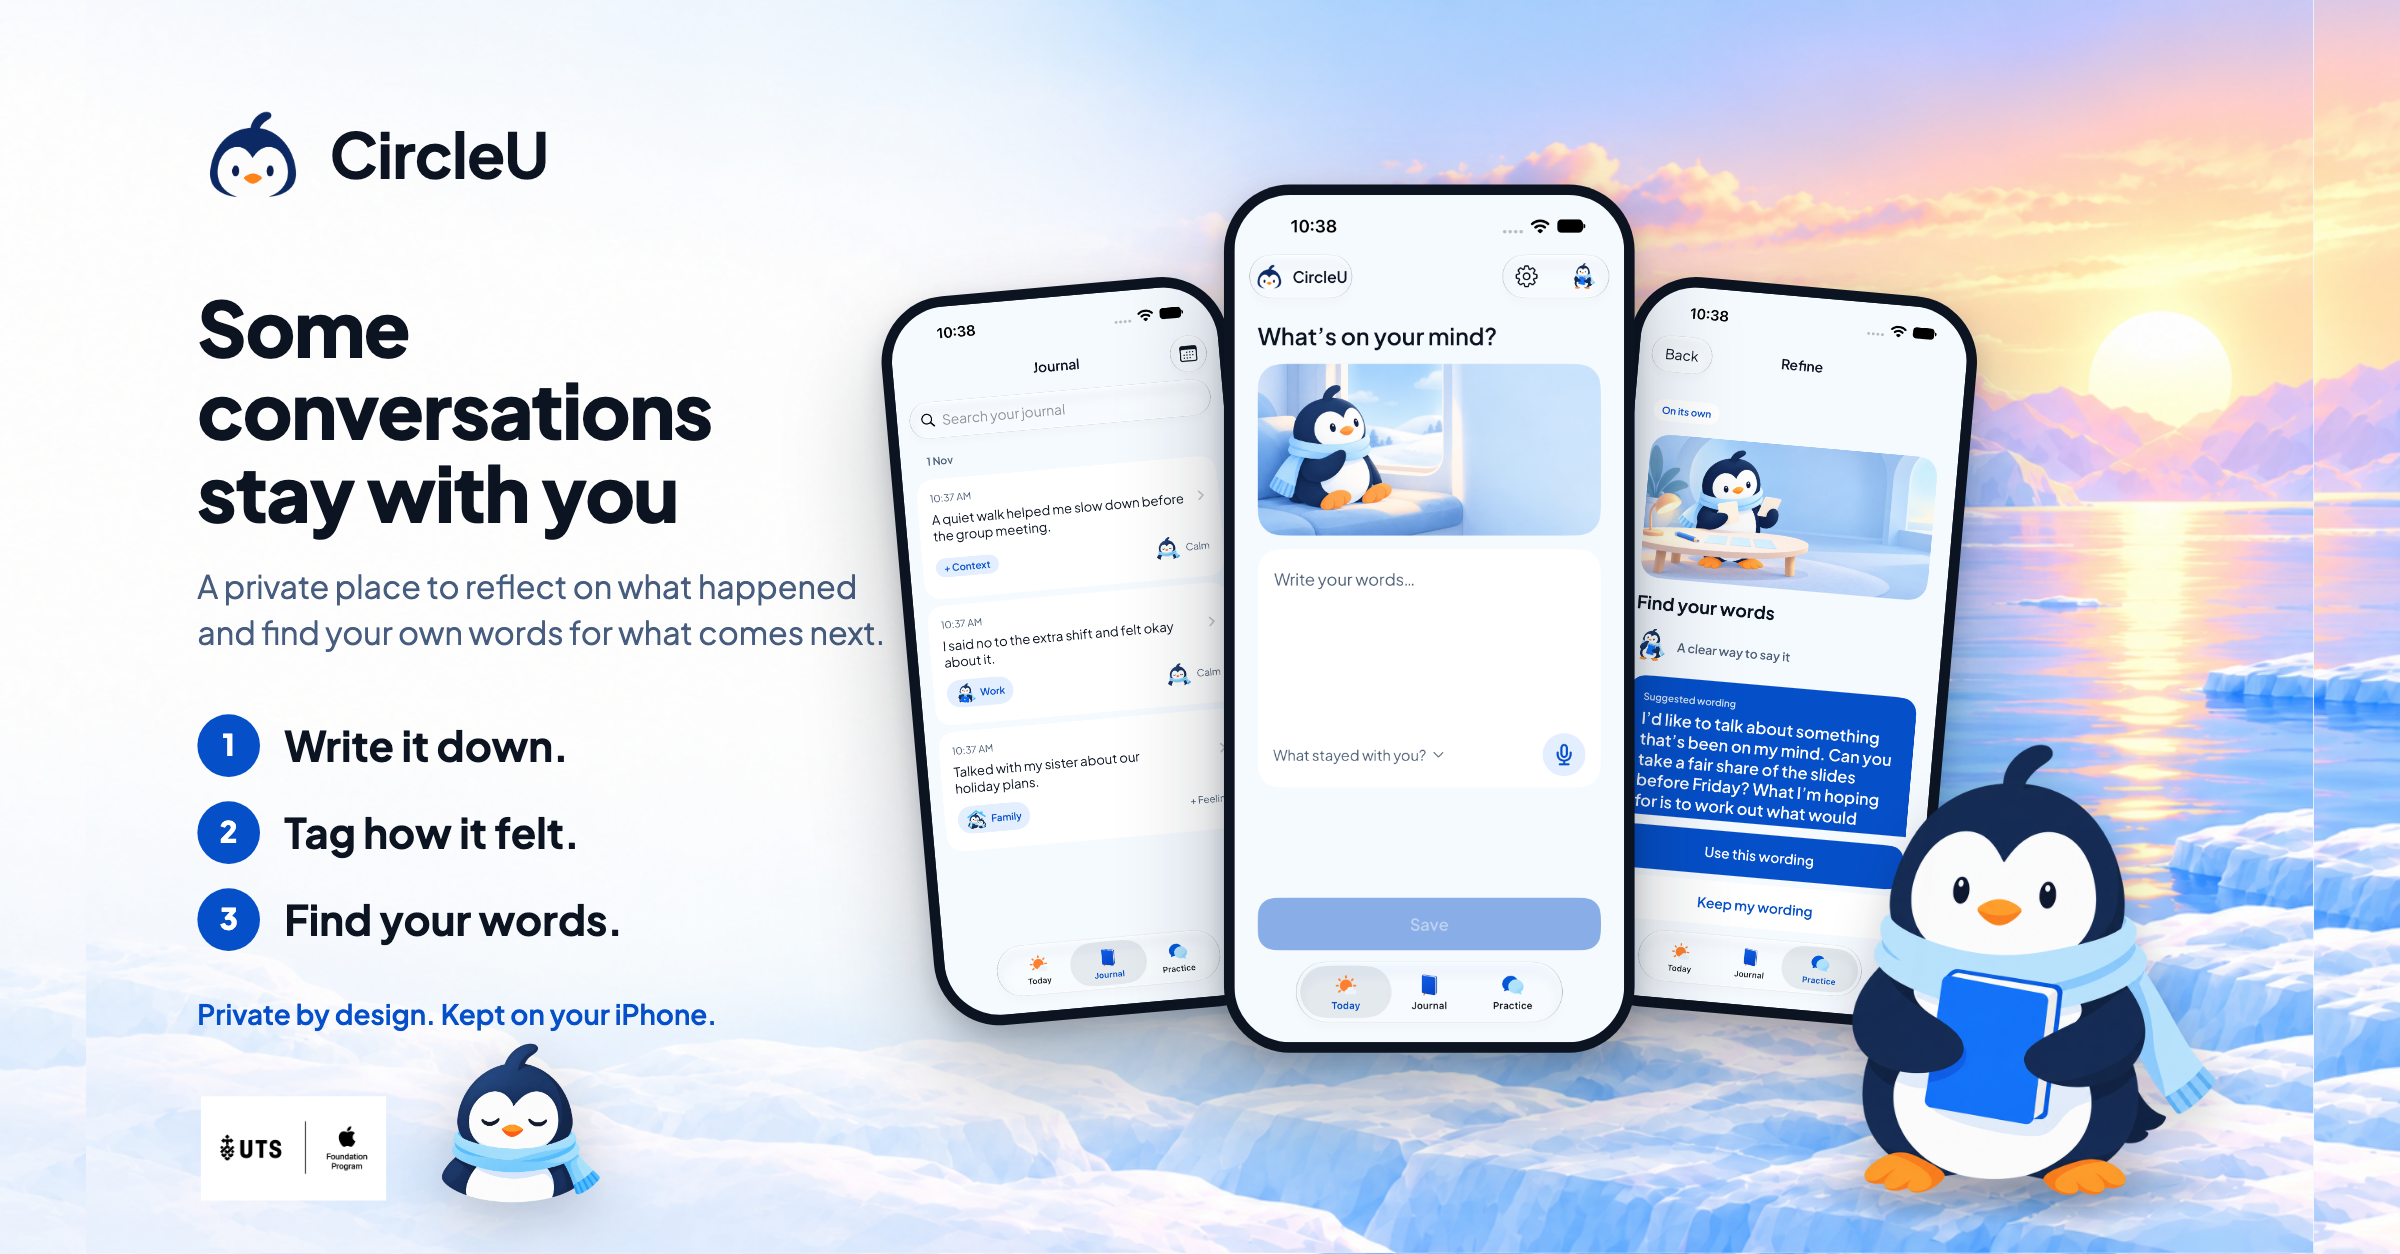
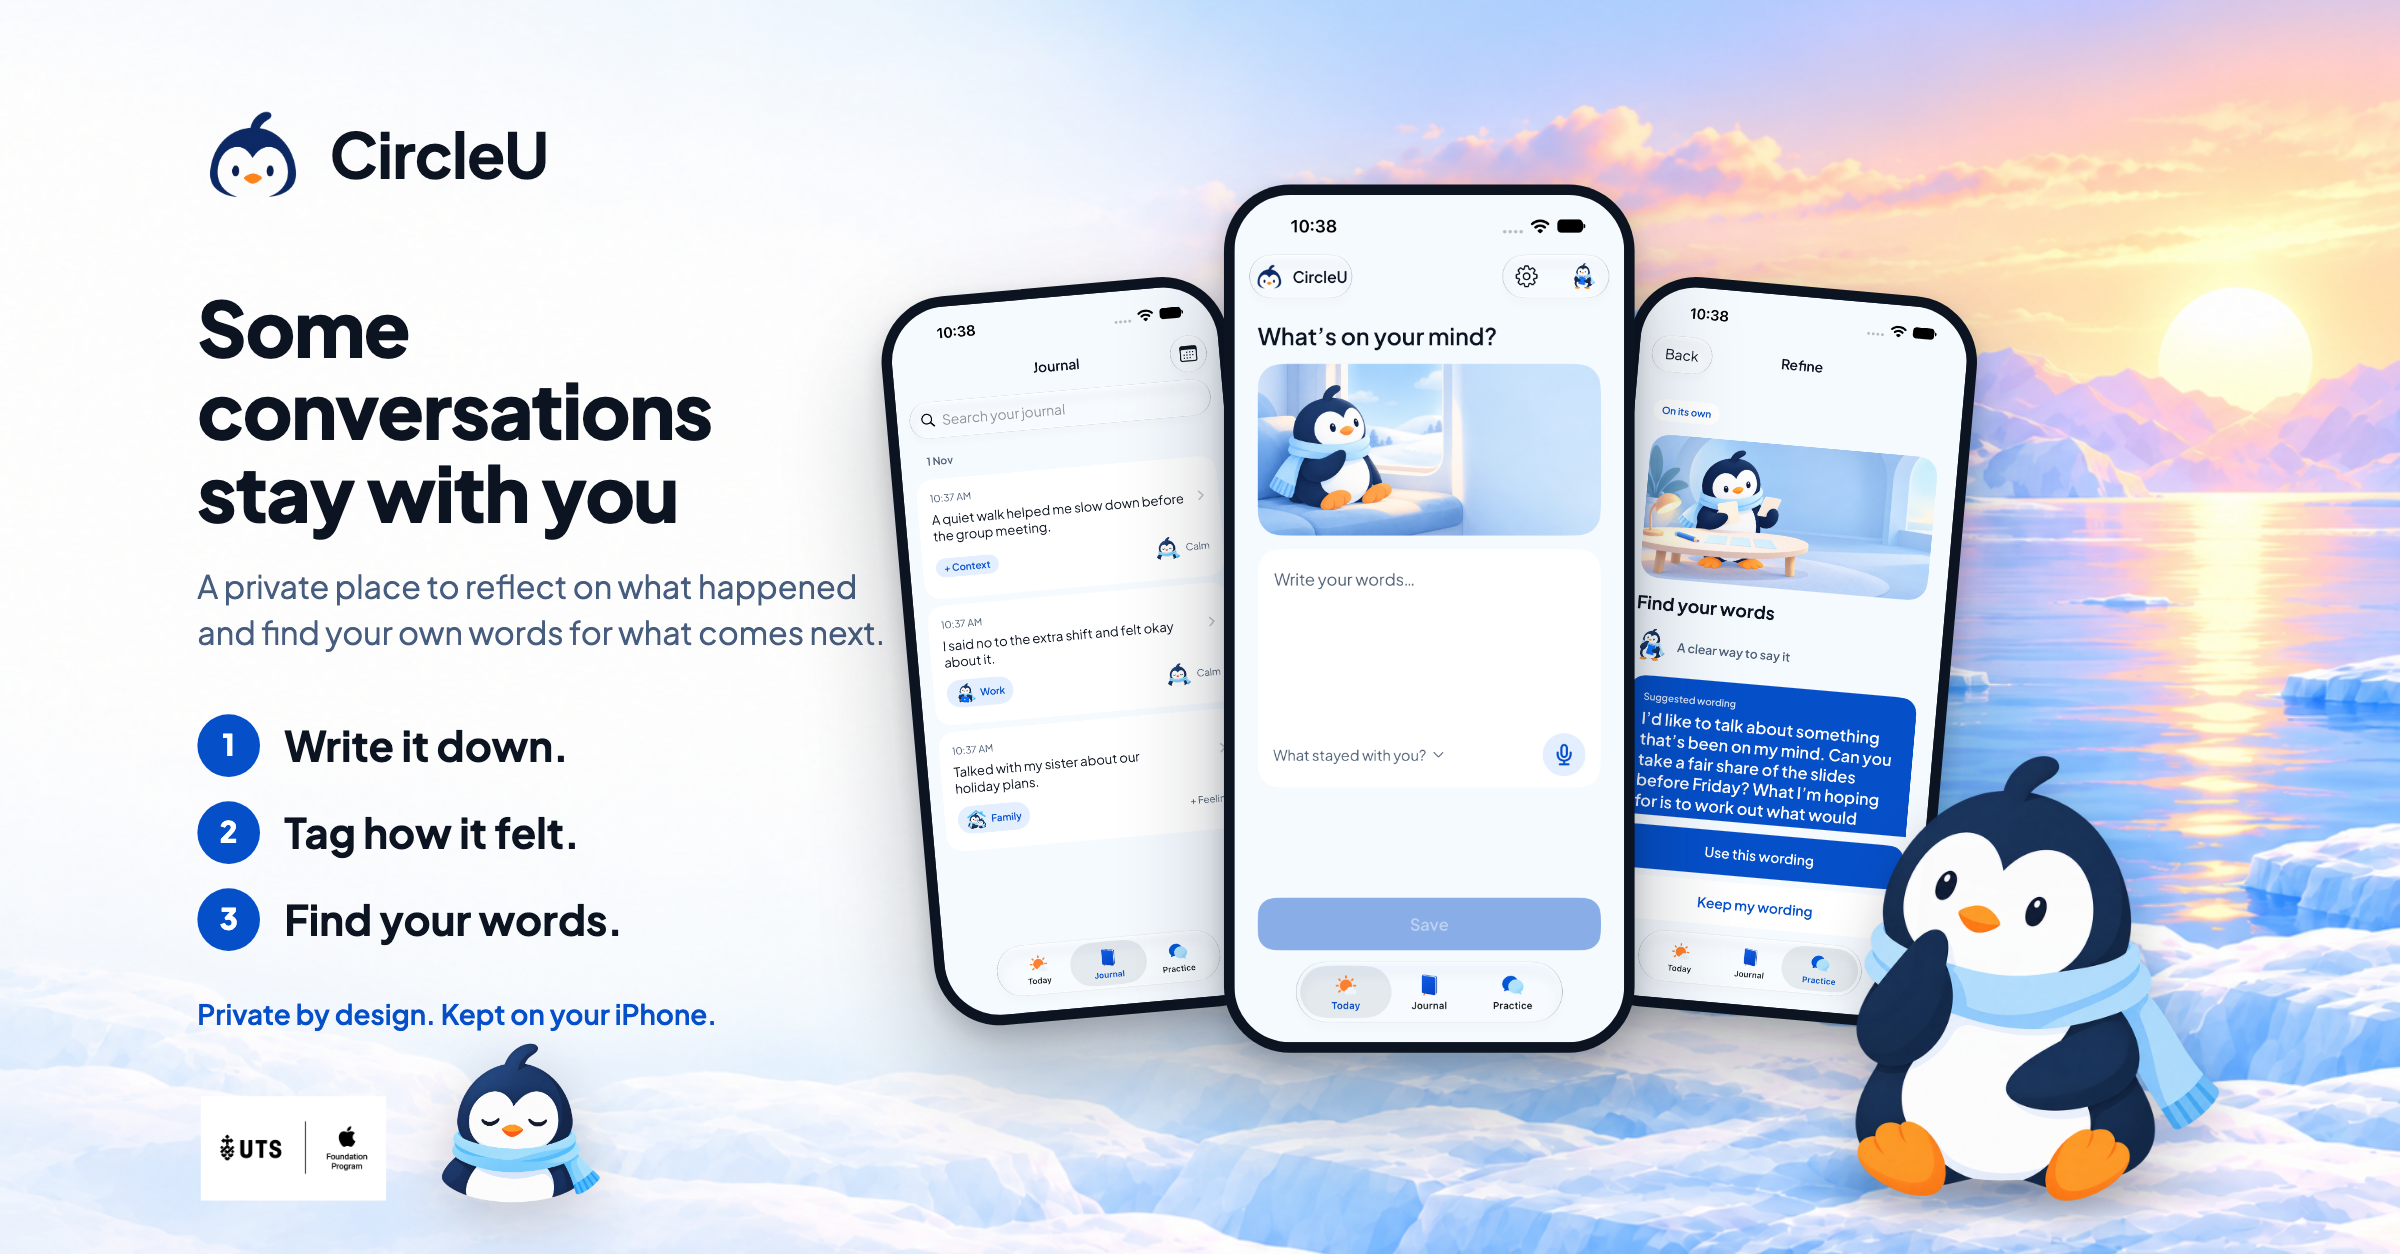
docs(poster): considering Pingu from slide 2; LinkedIn page draws the scene once

diff --git a/docs/design/showcase-2026-10-30/refinement-07/poster-linkedin.html b/docs/design/showcase-2026-10-30/refinement-07/poster-linkedin.html
@@ -1,8 +1,87 @@
 <!doctype html>
-<html lang="en"><head><meta charset="utf-8"><title>CircleU poster v7 (LinkedIn)</title>
+<html lang="en">
+<head>
+<meta charset="utf-8">
+<title>CircleU poster v7 (LinkedIn)</title>
 <style>
-  html, body { margin: 0; width: 1200px; height: 627px; overflow: hidden; }
-  body { background: #f5faff url("assets/background.png") center / cover no-repeat; position: relative; }
-  iframe { position: absolute; left: 43px; top: 0; width: 1280px; height: 720px; border: 0; transform: scale(.87); transform-origin: 0 0; background: transparent; }
-</style></head>
-<body><iframe src="poster.html"></iframe></body></html>
+  @font-face { font-family: "Plus Jakarta Sans"; src: url("assets/PlusJakartaSans.ttf") format("truetype"); font-weight: 200 800; }
+  * { box-sizing: border-box; margin: 0; padding: 0; }
+  html, body { width: 1200px; height: 627px; overflow: hidden; }
+  .page { position: absolute; left: 43px; top: 0; width: 1280px; height: 720px; transform: scale(.87); transform-origin: 0 0; }
+  body {
+    font-family: "Plus Jakarta Sans", -apple-system, sans-serif; color: #0d1421;
+    background: #f5faff url("assets/background.png") center / cover no-repeat;
+    position: relative;
+  }
+  /* soft "ice" bands */
+  .band { position: absolute; left: 520px; right: -80px; height: 150px; border-radius: 120px;
+          background: linear-gradient(180deg, rgba(255,255,255,.75), rgba(214,231,255,.55)); filter: blur(1px); }
+  .band.a { top: 520px; transform: rotate(-4deg); }
+  .band.b { top: 610px; transform: rotate(-2deg); left: 450px; background: linear-gradient(180deg, rgba(255,255,255,.9), rgba(198,220,255,.6)); }
+
+  /* Hides the text baked into the cover artwork; the scene and Pingu on the right stay untouched. */
+  /* The journal Pingu (the same figure as in the v6 artwork, as its transparent original), sitting on
+     the ice shelf at the right with a soft ground shadow so he belongs to the scene. */
+  .hero { position: absolute; right: 26px; bottom: 14px; width: 292px; z-index: 5; filter: drop-shadow(0 10px 14px rgba(13,20,33,.22)); }
+  .hero-shadow { position: absolute; right: 36px; bottom: 16px; width: 270px; height: 44px; border-radius: 50%; z-index: 4;
+                 background: radial-gradient(ellipse at center, rgba(13,20,33,.28) 0%, rgba(13,20,33,0) 70%); }
+  .left { position: absolute; left: 64px; top: 56px; width: 400px; }
+  .wordmark { display: flex; align-items: center; gap: 12px; }
+  .wordmark img { width: 64px; height: 64px; }
+  .wordmark span { font-size: 36px; font-weight: 700; letter-spacing: -0.5px; }
+  h1 { margin-top: 44px; font-size: 44px; line-height: 1.08; font-weight: 800; letter-spacing: -0.8px; }
+  .intro { margin-top: 18px; font-size: 18.5px; line-height: 1.4; color: #465d7f; }
+  .label { margin-top: 30px; font-size: 15px; font-weight: 700; color: #054fc9; }
+  .steps { margin-top: 34px; list-style: none; counter-reset: step; }
+  .steps li { counter-increment: step; display: flex; align-items: center; gap: 14px; font-size: 24px; font-weight: 700; line-height: 1.2; margin-bottom: 14px; }
+  .steps li::before { content: counter(step); width: 36px; height: 36px; border-radius: 50%; background: #054fc9; color: #fff;
+                      font-size: 17px; font-weight: 800; display: inline-flex; align-items: center; justify-content: center; flex: none; }
+  .trust { margin-top: 26px; font-size: 16px; font-weight: 600; color: #054fc9; }
+  .foot { position: absolute; left: 66px; bottom: 30px; display: flex; align-items: flex-end; gap: 22px; }
+  .foot img.lockup { height: 60px; }
+  .foot img.pingu { height: 104px; margin-bottom: -6px; filter: drop-shadow(0 10px 16px rgba(13,20,33,.2)); }
+
+  .phones { position: absolute; left: 472px; top: 44px; width: 600px; height: 676px; }
+  .phone { position: absolute; border-radius: 38px; background: #0d1421; padding: 6px;
+           box-shadow: 0 30px 60px rgba(13,20,33,.28), 0 6px 14px rgba(13,20,33,.18); }
+  .phone img { display: block; border-radius: 32px; width: 100%; }
+  .phone.side { width: 200px; top: 120px; }
+  .phone.left  { left: 0px;  transform: rotate(-5deg); }
+  .phone.right { left: 400px; transform: rotate(5deg); }
+  .phone.main  { width: 236px; left: 182px; top: 62px; z-index: 2; }
+  .phone .cap { position: absolute; left: 50%; transform: translateX(-50%); top: -36px; white-space: nowrap;
+                font-size: 15px; font-weight: 700; color: #054fc9; background: #fff; padding: 6px 14px; border-radius: 999px;
+                box-shadow: 0 4px 12px rgba(13,20,33,.1); }
+</style>
+</head>
+<body>
+<div class="page">
+
+  <div class="left">
+    <div class="wordmark"><img src="assets/logo.png" alt=""><span>CircleU</span></div>
+    <h1>Some<br>conversations<br>stay with you</h1>
+    <p class="intro">A private place to reflect on what happened and find your own words for what comes next.</p>
+    <ol class="steps">
+      <li>Write it down.</li>
+      <li>Tag how it felt.</li>
+      <li>Find your words.</li>
+    </ol>
+    <p class="trust">Private by design. Kept on your iPhone.</p>
+  </div>
+
+  <div class="phones">
+    <div class="phone side left"><img src="assets/journal.png" alt="Journal screen"></div>
+    <div class="phone main"><img src="assets/today.png" alt="Today screen"></div>
+    <div class="phone side right"><img src="assets/practice.png" alt="Practice screen"></div>
+  </div>
+
+  <div class="hero-shadow"></div>
+  <img class="hero" src="assets/pingu-considering.png" alt="">
+
+  <div class="foot">
+    <img class="lockup" src="assets/program-lockup.png" alt="UTS Apple Foundation Program">
+    <img class="pingu" src="assets/pingu-calm.png" alt="">
+  </div>
+</div>
+</body>
+</html>

diff --git a/docs/design/showcase-2026-10-30/refinement-07/poster.html b/docs/design/showcase-2026-10-30/refinement-07/poster.html
@@ -74,7 +74,7 @@
   </div>
 
   <div class="hero-shadow"></div>
-  <img class="hero" src="assets/pingu-journal.png" alt="">
+  <img class="hero" src="assets/pingu-considering.png" alt="">
 
   <div class="foot">
     <img class="lockup" src="assets/program-lockup.png" alt="UTS Apple Foundation Program">

diff --git a/docs/design/showcase-2026-10-30/refinement-07/README.md b/docs/design/showcase-2026-10-30/refinement-07/README.md
@@ -4,7 +4,7 @@
 
 - [Poster PNG](CircleU-Poster-v7.png): 2560 × 1440 landscape export.
 - [Source page](poster.html): HTML and CSS; rendered with headless Chrome at a 2× device scale factor. Everything on it is editable text or a referenced asset in [assets](assets/).
-- [LinkedIn version](CircleU-Poster-v7-LinkedIn.png): 2400 × 1254 (LinkedIn's 1.91:1 link/post image at 2×), from [poster-linkedin.html](poster-linkedin.html), the same page scaled to 87% on a 1200 × 627 canvas.
+- [LinkedIn version](CircleU-Poster-v7-LinkedIn.png): 2400 × 1254 (LinkedIn's 1.91:1 link/post image at 2×), from [poster-linkedin.html](poster-linkedin.html), the poster page on a 1200 × 627 canvas, scaled to 87% and centred, with the scene drawn once.
 - [Provenance](provenance.json): hashes of every asset and the capture test that produced the screens.
 
 ## What is on it
@@ -12,11 +12,11 @@
 | Element | Source |
 | --- | --- |
 | Journal, Today and Practice screens | `GuestShowcaseCaptureUITests.testCaptureShowcaseScreens` on the iPhone 18 Pro Simulator, iOS 27.0: a seeded Journal with three tagged entries, the empty Today screen, and the Practice result for an invented group-project message with guided suggestions |
-| Background, wordmark and Pingu | `refinement-04/assets/arctic-background.png`, `BrandArtwork/BrandAvatar.png`, `BrandArtwork/BrandLogo.png` and `EmotionPortraits02/PinguCalmTransparentV1.png`, all unchanged files |
+| Background, wordmark and Pingu | `refinement-04/assets/arctic-background.png`, `BrandArtwork/Expansion05/PinguConsideringV1.png`, `BrandArtwork/BrandLogo.png` and `EmotionPortraits02/PinguCalmTransparentV1.png`, all unchanged files |
 | Type | Bundled Plus Jakarta Sans; headline 44 px, intro 18.5 px, steps 24 px, trust line 16 px on the 1280 × 720 canvas |
 | Program lockup | The same UTS Apple Foundation Program image as refinement 04–06; not a claim of endorsement |
 
-Owner review, 1 November: background is the existing empty arctic scene (refinement 04) with the sitting journal Pingu (the transparent `BrandAvatar.png` original of the v6 figure) placed on the ice shelf at the right with a ground shadow; a clipped crop of the v6 artwork was tried first and showed seams, the screen captions and the two footer notes are removed, Pingu sits beside the program lockup, the example quotes are replaced by three steps (Write it down. Tag how it felt. Find your words.) with the line "Private by design. Kept on your iPhone.", and the phones are back at full size between the copy and Pingu. The poster carries no "Design mockups" disclaimer because the screens are real.
+Owner review, 1 November: background is the existing empty arctic scene (refinement 04) with the sitting, considering Pingu from refinement-04 slide 2 (`Expansion05/PinguConsideringV1.png`) on the ice shelf at the right with a ground shadow, the screen captions and the two footer notes are removed, Pingu sits beside the program lockup, the example quotes are replaced by three steps (Write it down. Tag how it felt. Find your words.) with the line "Private by design. Kept on your iPhone.", and the phones are back at full size between the copy and Pingu. The poster carries no "Design mockups" disclaimer because the screens are real.
 
 ## Rebuilding
 
